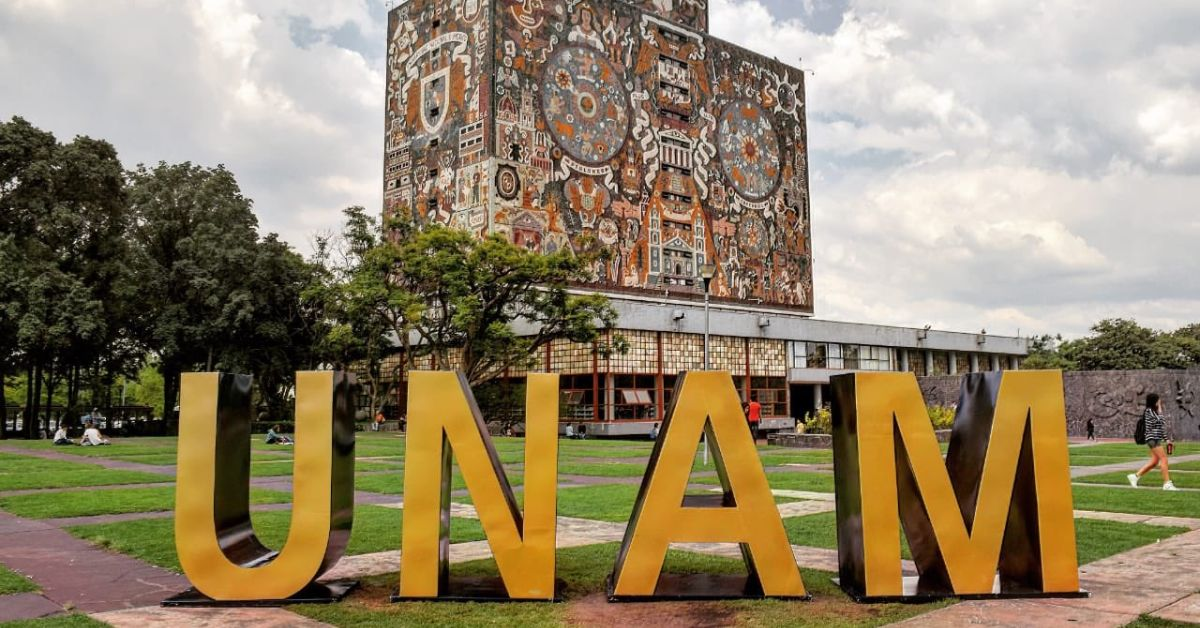
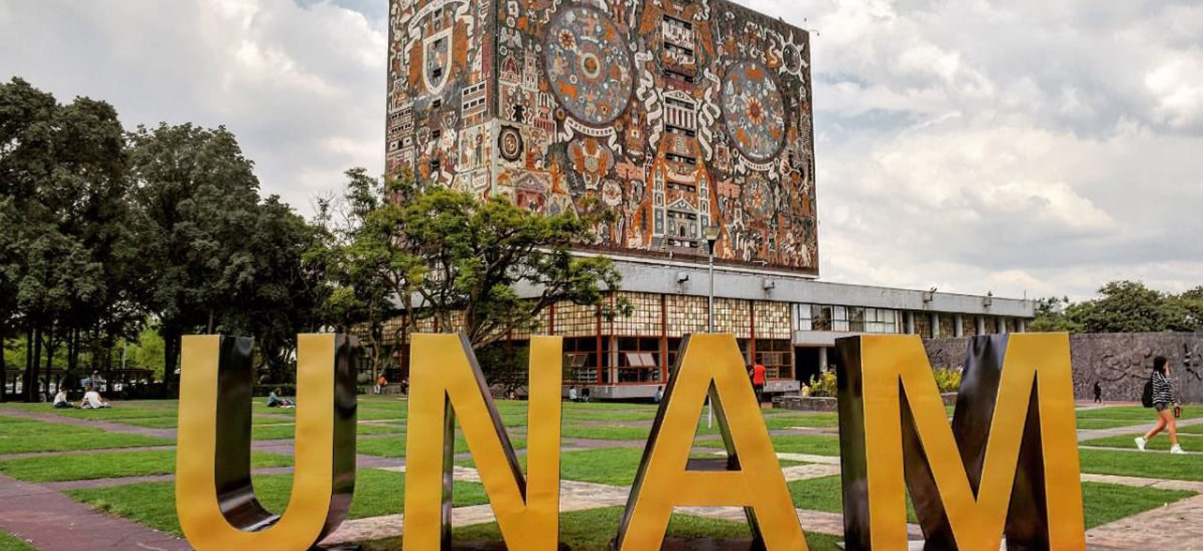
Update varios

diff --git a/Client/src/views/coursesViews/coursera/universidades/UNAM.vue b/Client/src/views/coursesViews/coursera/universidades/UNAM.vue
@@ -1,148 +1,148 @@
 <template>
-    <div class="bg-gray-100">
-      <!-- Portada -->
-      <!-- Imagen de Portada -->
-      <img :src="portadaImg" alt="Imagen de portada" class="w-full h-96 object-cover" />
-  
-      <!-- Contenido de la Portada -->
-      <div class="text-sm bg-opacity-75 px-4 sm:px-20 lg:px-60">
-        <!-- Título y Descripción -->
-        <div class="flex flex-col sm:flex-row items-center border-b border-gray-300">
-          <!-- Imagen -->
-          <img src="../../../../assets/instituciones/UNAM.png" alt="Universidad Autonoma de Mexico logo" class="w-64 h-auto">
-  
-          <!-- Texto -->
-          <div>
-            <h1 class="lg:text-2xl font-semibold text-gray-800">{{ pageTitle }}</h1>
-            <p class="text-gray-600">{{ pageDescription }}</p>
-          </div>
-        </div>
-  
-        <!-- Redes Sociales, ajustadas debajo de la imagen y el texto -->
-        <div class="flex justify-center space-x-4 py-4">
-          <a :href="instagramLink" target="_blank" class="text-gray-600 hover:text-gray-800">
-            <i class="fab fa-instagram fa-lg"></i>
-          </a>
-          <a :href="twitterLink" target="_blank" class="text-gray-600 hover:text-gray-800">
-            <i class="fab fa-twitter fa-lg"></i>
-          </a>
-          <a :href="facebookLink" target="_blank" class="text-gray-600 hover:text-gray-800">
-            <i class="fab fa-facebook-f fa-lg"></i>
-          </a>
+  <div class="bg-gray-100">
+    <!-- Portada -->
+    <!-- Imagen de Portada -->
+    <img :src="portadaImg" alt="" class="w-full h-80 object-cover" />
+
+    <!-- Contenido de la Portada -->
+    <div class="text-sm bg-opacity-75 px-4 sm:px-20 lg:px-60">
+      <!-- Título y Descripción -->
+      <div class="flex flex-col sm:flex-row pb-4 md:pb-0 items-center border-b border-gray-300">
+        <!-- Imagen -->
+        <img src="../../../../assets/instituciones/UNAM.png" alt="Universidad Autonoma de Mexico logo" class="w-64 h-auto">
+
+        <!-- Texto -->
+        <div>
+          <h1 class="lg:text-2xl font-semibold text-gray-800">{{ pageTitle }}</h1>
+          <p class="text-gray-600">{{ pageDescription }}</p>
         </div>
       </div>
-  
-      
-      <div class="container mx-auto px-4 sm:px-20 lg:px-60 py-6">
-        <!-- Cursos -->
-        <h2 class="text-md lg:text-xl font-semibold p-4 text-gray-800">
-          Cursos y programas especializados
-        </h2>
-  
-        <div class="grid grid-cols-1 sm:grid-cols-2 lg:grid-cols-3 xl:grid-cols-4 gap-4 pb-4">
-          <div v-for="(course) in displayedCourses" :key="course.slug"
-            class="flex flex-col bg- p-2 m-1 rounded-lg h-full hover:shadow-md shadow-sm transition">
-            <router-link :to="`/coursera/cursos/${course.slug}`"
-              class="inline-block hover:underline text-blue-600">
-                <img :src="course.imgUrl" alt="Imagen del curso" class="w-full h-48 object-cover rounded-md mb-4">
-                <div class="flex-grow">
-                  <h3 class="text-md font-semibold">{{ course.title || 'Título' }}</h3>
-                </div>
-            </router-link>
-          </div>
-        </div>
-  
-        <!-- Paginación -->
-        <Paginacion :currentPage="currentPage" :totalPages="totalPages" @changePage="handlePageChange" />
-  
-        <!-- Profesores -->
-        <div class="mt-8">
-          <h2 class="text-xl font-semibold mb-4">Profesores</h2>
-          <div v-if="professors.length" class="grid grid-cols-1 sm:grid-cols-2 lg:grid-cols-3 xl:grid-cols-4 gap-4">
-            <div v-for="professor in (isProfessorsExpanded ? professors : professors.slice(0, 16))" :key="professor._id"
-              class="bg-white p-4 rounded-lg shadow-md flex items-center">
-              <img :src="professor.imageUrl" alt="Foto del profesor" class="w-16 h-16 object-cover rounded-full mr-4" />
-              <div>
-                <h3 class="font-semibold">{{ professor.name }}</h3>
+
+      <!-- Redes Sociales, ajustadas debajo de la imagen y el texto -->
+      <div class="flex justify-center space-x-4 py-4">
+        <a :href="instagramLink" target="_blank" class="text-gray-600 hover:text-gray-800">
+          <i class="fab fa-instagram fa-lg"></i>
+        </a>
+        <a :href="twitterLink" target="_blank" class="text-gray-600 hover:text-gray-800">
+          <i class="fab fa-twitter fa-lg"></i>
+        </a>
+        <a :href="facebookLink" target="_blank" class="text-gray-600 hover:text-gray-800">
+          <i class="fab fa-facebook-f fa-lg"></i>
+        </a>
+      </div>
+    </div>
+
+    
+    <div class="container mx-auto px-4 sm:px-20 lg:px-60 py-6">
+      <!-- Cursos -->
+      <h2 class="text-md lg:text-xl font-semibold p-4 text-gray-800">
+        Cursos y programas especializados
+      </h2>
+
+      <div class="grid grid-cols-1 sm:grid-cols-2 lg:grid-cols-3 xl:grid-cols-4 gap-4 pb-4">
+        <div v-for="(course) in displayedCourses" :key="course.slug"
+          class="flex flex-col bg- p-2 m-1 rounded-lg h-full hover:shadow-md shadow-sm transition">
+          <router-link :to="`/coursera/cursos/${course.slug}`"
+            class="inline-block hover:underline text-blue-600">
+              <img :src="course.imgUrl" alt="Imagen del curso" class="w-full h-48 object-cover rounded-md mb-4">
+              <div class="flex-grow">
+                <h3 class="text-md font-semibold">{{ course.title || 'Título' }}</h3>
               </div>
+          </router-link>
+        </div>
+      </div>
+
+      <!-- Paginación -->
+      <Paginacion :currentPage="currentPage" :totalPages="totalPages" @changePage="handlePageChange" />
+
+      <!-- Profesores -->
+      <div class="mt-8">
+        <h2 class="text-xl font-semibold mb-4">Profesores</h2>
+        <div v-if="professors.length" class="grid grid-cols-1 sm:grid-cols-2 lg:grid-cols-3 xl:grid-cols-4 gap-4">
+          <div v-for="professor in (isProfessorsExpanded ? professors : professors.slice(0, 16))" :key="professor._id"
+            class="bg-white p-4 rounded-lg shadow-md flex items-center">
+            <img :src="professor.imageUrl" alt="Foto del profesor" class="w-16 h-16 object-cover rounded-full mr-4" />
+            <div>
+              <h3 class="font-semibold">{{ professor.name }}</h3>
             </div>
           </div>
-          <div v-if="professors.length > 4" class="text-center mt-4">
-            <button @click="toggleProfessorsVisibility"
-              class="px-4 py-2 border border-indigo-600 text-indigo-600 font-semibold rounded-lg hover:bg-indigo-600 hover:text-white focus:outline-none focus:ring-2 focus:ring-indigo-500 focus:ring-opacity-75 transition ease-in duration-300">
-              {{ isProfessorsExpanded ? 'Ver Menos' : 'Ver Más' }}
-            </button>
-          </div>
+        </div>
+        <div v-if="professors.length > 4" class="text-center mt-4">
+          <button @click="toggleProfessorsVisibility"
+            class="px-4 py-2 border border-indigo-600 text-indigo-600 font-semibold rounded-lg hover:bg-indigo-600 hover:text-white focus:outline-none focus:ring-2 focus:ring-indigo-500 focus:ring-opacity-75 transition ease-in duration-300">
+            {{ isProfessorsExpanded ? 'Ver Menos' : 'Ver Más' }}
+          </button>
         </div>
       </div>
     </div>
-  </template>
-  
-  <script setup>
-  import { ref, computed, onMounted } from 'vue';
-  import axios from 'axios';
-  import Paginacion from '../../../../components/Paginacion.vue';
-  
-  import portadaImg from "../../../../assets/instituciones/unam_campus.jpg";
-  
-  const pageTitle = ' Universidad Nacional Autónoma de México - Coursera';
-  const pageDescription = 'La Universidad Nacional Autónoma de México (UNAM) es una de las universidades más grandes y prestigiosas de América Latina. Fundada el 22 de septiembre de 1910, tiene su origen en la Real y Pontificia Universidad de México, establecida en 1551 por la Corona Española. Es una institución pública y autónoma que ofrece una amplia gama de programas académicos en todos los niveles de educación superior, incluyendo pregrado, posgrado y educación continua. La UNAM se destaca por su excelencia académica, su intensa actividad de investigación y su contribución significativa al desarrollo cultural, científico y tecnológico de México. Cuenta con múltiples facultades, escuelas, institutos y centros de investigación que abarcan áreas del conocimiento como las ciencias sociales, las humanidades, las ciencias exactas, las ingenierías, las artes, y más.';
-  const courses = ref([]);
-  const professors = ref([]);
-  const currentPage = ref(1);
-  const totalPages = ref(1);
-  const totalCourses = ref(0);
-  const isLoading = ref(false);
-  axios.defaults.baseURL = "http://localhost:3333";
-  const isProfessorsExpanded = ref(false);
-  
-  // Redes sociales links
-  const instagramLink = 'https://www.instagram.com/unam_mx/';
-  const twitterLink = 'https://twitter.com/UNAM_MX';
-  const facebookLink = 'https://www.facebook.com/UNAM.MX.Oficial/';
-  
-  // Cargar profesores
-  const loadProfessors = async () => {
-    try {
-      const response = await axios.get('/cursos/coursera/universidad/UNAM/profesores');
-      professors.value = response.data;
-    } catch (error) {
-      console.error("Error al obtener los profesores:", error.message);
-    }
-  };
-  
-  // Cargar cursos
-  const loadCourses = async () => {
-    isLoading.value = true;
-    try {
-      const response = await axios.get(`/cursos/coursera/universidad/UNAM?page=${currentPage.value}`);
-      courses.value = response.data.courses;
-      totalPages.value = response.data.totalPages;
-      totalCourses.value = response.data.totalCourses;
-    } catch (error) {
-      console.error("Error al obtener los cursos:", error);
-    } finally {
-      isLoading.value = false;
-    }
-  };
-  
-  // Manejo del cambio de página
-  const handlePageChange = (newPage) => {
-    currentPage.value = newPage;
-    loadCourses();
-  };
-  
-  // Mostrar una cantidad limitada de cursos
-  const visibleCourses = ref(8);
-  const displayedCourses = computed(() => courses.value.slice(0, visibleCourses.value));
-  
-  // Toggle para la visibilidad de los profesores
-  const toggleProfessorsVisibility = () => {
-    isProfessorsExpanded.value = !isProfessorsExpanded.value;
-  };
-  
-  onMounted(() => {
-    loadCourses();
-    loadProfessors();
-  });
-  </script>
+  </div>
+</template>
+
+<script setup>
+import { ref, computed, onMounted } from 'vue';
+import axios from 'axios';
+import Paginacion from '../../../../components/Paginacion.vue';
+
+import portadaImg from "../../../../assets/instituciones/unam_campus.jpg";
+
+const pageTitle = ' Universidad Nacional Autónoma de México - Coursera';
+const pageDescription = 'La Universidad Nacional Autónoma de México (UNAM) es una de las universidades más grandes y prestigiosas de América Latina. Fundada el 22 de septiembre de 1910, tiene su origen en la Real y Pontificia Universidad de México, establecida en 1551 por la Corona Española. Es una institución pública y autónoma que ofrece una amplia gama de programas académicos en todos los niveles de educación superior, incluyendo pregrado, posgrado y educación continua. La UNAM se destaca por su excelencia académica, su intensa actividad de investigación y su contribución significativa al desarrollo cultural, científico y tecnológico de México. Cuenta con múltiples facultades, escuelas, institutos y centros de investigación que abarcan áreas del conocimiento como las ciencias sociales, las humanidades, las ciencias exactas, las ingenierías, las artes, y más.';
+const courses = ref([]);
+const professors = ref([]);
+const currentPage = ref(1);
+const totalPages = ref(1);
+const totalCourses = ref(0);
+const isLoading = ref(false);
+axios.defaults.baseURL = "http://localhost:3333";
+const isProfessorsExpanded = ref(false);
+
+// Redes sociales links
+const instagramLink = 'https://www.instagram.com/unam_mx/';
+const twitterLink = 'https://twitter.com/UNAM_MX';
+const facebookLink = 'https://www.facebook.com/UNAM.MX.Oficial/';
+
+// Cargar profesores
+const loadProfessors = async () => {
+  try {
+    const response = await axios.get('/cursos/coursera/universidad/UNAM/profesores');
+    professors.value = response.data;
+  } catch (error) {
+    console.error("Error al obtener los profesores:", error.message);
+  }
+};
+
+// Cargar cursos
+const loadCourses = async () => {
+  isLoading.value = true;
+  try {
+    const response = await axios.get(`/cursos/coursera/universidad/UNAM?page=${currentPage.value}`);
+    courses.value = response.data.courses;
+    totalPages.value = response.data.totalPages;
+    totalCourses.value = response.data.totalCourses;
+  } catch (error) {
+    console.error("Error al obtener los cursos:", error);
+  } finally {
+    isLoading.value = false;
+  }
+};
+
+// Manejo del cambio de página
+const handlePageChange = (newPage) => {
+  currentPage.value = newPage;
+  loadCourses();
+};
+
+// Mostrar una cantidad limitada de cursos
+const visibleCourses = ref(8);
+const displayedCourses = computed(() => courses.value.slice(0, visibleCourses.value));
+
+// Toggle para la visibilidad de los profesores
+const toggleProfessorsVisibility = () => {
+  isProfessorsExpanded.value = !isProfessorsExpanded.value;
+};
+
+onMounted(() => {
+  loadCourses();
+  loadProfessors();
+});
+</script>

diff --git a/Client/src/views/blogs/blogList.vue b/Client/src/views/blogs/blogList.vue
@@ -1,15 +1,23 @@
 <template>
-  <div class="bg-pastel-fucsia min-h-screen p-5">
-    <Notificacion v-if="showNotification" :message="notificationMessage" :type="notificationType" @close="showNotification = false" />
+  <div class="flex-col max-w-screen-full md:flex-row mx-auto md:px-60 bg-gray-100 pb-12">
+    <Notificacion v-if="showNotification" :message="notificationMessage" :type="notificationType"
+      @close="showNotification = false" />
     <!-- Texto introductorio -->
     <div class="intro-text mb-4">
-      <h1 class="text-3xl font-bold text-center">Bienvenido a Nuestro Blog</h1>
-      <p class="text-xl text-center">Descubre las últimas tendencias, consejos y estrategias para potenciar tu carrera profesional.</p>
-      <p>En CURSEEK, estamos comprometidos con tu desarrollo y éxito profesional. A través de este espacio, queremos compartir contigo valiosas insights, consejos prácticos y las últimas tendencias en el mundo laboral que te ayudarán a destacar en tu búsqueda de empleo y desarrollo de carrera. </p>
+      <h1 class="text-4xl text-center py-12 lg:text-5xl font-bold text-gray-800">
+        <span class="font-serif text-indigo-900">Info | </span>Bienvenido a nuestro blog
+      </h1>
+      <p class="text-xl text-center">Descubre las últimas tendencias, consejos y estrategias para potenciar tu carrera
+        profesional.</p>
+      <p>En CURSEEK, estamos comprometidos con tu desarrollo y éxito profesional. A través de este espacio, queremos
+        compartir contigo valiosas insights, consejos prácticos y las últimas tendencias en el mundo laboral que te
+        ayudarán a destacar en tu búsqueda de empleo y desarrollo de carrera. </p>
     </div>
     <!-- Botón para agregar un nuevo blog solo si es admin -->
     <div v-if="isAdmin" class="text-right mb-4">
-      <router-link to="/blog/new" class="inline-block bg-blue-500 hover:bg-blue-600 text-white font-bold py-2 px-4 rounded-lg transition-colors duration-200">Agregar nuevo blog</router-link>
+      <router-link to="/blog/new"
+        class="inline-block bg-blue-500 hover:bg-blue-600 text-white font-bold py-2 px-4 rounded-lg transition-colors duration-200">Agregar
+        nuevo blog</router-link>
     </div>
     <!-- Listado de blogs -->
     <div v-if="blogs.length" class="max-w-6xl mx-auto grid grid-cols-1 md:grid-cols-2 lg:grid-cols-3 gap-4">
@@ -27,8 +35,10 @@
           </div>
           <div v-if="isAdmin" class="admin-buttons flex space-x-2 mt-4">
             <!-- Asegúrate de actualizar esta ruta si decides implementar la edición usando slugs -->
-            <router-link :to="{ name: 'EditBlog', params: { slug: blog.slug } }" class="inline-block bg-blue-500 hover:bg-blue-600 text-white font-bold py-2 px-4 rounded-lg transition-colors duration-200">Editar</router-link>
-            <button @click="deleteBlog(blog.slug)" class="bg-red-500 hover:bg-red-600 text-white font-bold py-2 px-4 rounded-lg transition-colors duration-200">Eliminar</button>
+            <router-link :to="{ name: 'EditBlog', params: { slug: blog.slug } }"
+              class="inline-block bg-blue-500 hover:bg-blue-600 text-white font-bold py-2 px-4 rounded-lg transition-colors duration-200">Editar</router-link>
+            <button @click="deleteBlog(blog.slug)"
+              class="bg-red-500 hover:bg-red-600 text-white font-bold py-2 px-4 rounded-lg transition-colors duration-200">Eliminar</button>
           </div>
         </div>
       </div>

diff --git a/Client/src/components/AppHeader.vue b/Client/src/components/AppHeader.vue
@@ -25,11 +25,14 @@
               <button @click="toggleDropdown" class="text-indigo-600 font-semibold focus:outline-none w-full">
                 <span :class="{ 'border-b-2 border-indigo-600 pb-5': dropdownActive }">Cursos</span>
               </button>
-             
             </div>
-            <a href="/blogs" class="ml-2 justify-between items-center py-1">
-                <span>Blogs</span>
-              </a>
+            <div class="relative ml-6 hidden md:block">
+              <button class="text-indigo-900 hover:text-indigo-600 transition font-serif font-semibold focus:outline-none w-full">
+                <a href="/blogs" class="ml-2 justify-between items-center py-1">
+                  <span>Info</span>
+                </a>
+              </button>
+            </div>
           </div>
 
           <nav class="hidden lg:flex space-x-4 text-md">
@@ -108,7 +111,7 @@
             <!-- <a v-else @click="logout" class="hover:text-red-700 cursor-pointer">Logout</a> -->
             <router-link v-if="loggedInUsername" to="/profile" class="hover:text-purple-200 text-black">
               <!-- <img :src="profilePicture" alt="" class="h-8 w-8 rounded-full mr-2">               -->
-              <svg xmlns="http://www.w3.org/2000/svg" viewBox="0 -960 960 960" width="32">
+              <svg class="mt-1" xmlns="http://www.w3.org/2000/svg" viewBox="0 -960 960 960" width="32">
                 <path
                   d="M234-276q51-39 114-61.5T480-360q69 0 132 22.5T726-276q35-41 54.5-93T800-480q0-133-93.5-226.5T480-800q-133 0-226.5 93.5T160-480q0 59 19.5 111t54.5 93Zm246-164q-59 0-99.5-40.5T340-580q0-59 40.5-99.5T480-720q59 0 99.5 40.5T620-580q0 59-40.5 99.5T480-440Zm0 360q-83 0-156-31.5T197-197q-54-54-85.5-127T80-480q0-83 31.5-156T197-763q54-54 127-85.5T480-880q83 0 156 31.5T763-763q54 54 85.5 127T880-480q0 83-31.5 156T763-197q-54 54-127 85.5T480-80Zm0-80q53 0 100-15.5t86-44.5q-39-29-86-44.5T480-280q-53 0-100 15.5T294-220q39 29 86 44.5T480-160Zm0-360q26 0 43-17t17-43q0-26-17-43t-43-17q-26 0-43 17t-17 43q0 26 17 43t43 17Zm0-60Zm0 360Z"
                   fill="#5154a4" />

diff --git a/Client/src/views/nosotros.vue b/Client/src/views/nosotros.vue
@@ -78,7 +78,7 @@
                 <div class="grid-cols-1 md:grid-cols-2 lg:grid-cols-3 gap-6 mt-6">
                     <!-- Card 1 -->
                     <div class="bg-white p-6 rounded-lg shadow-md md:mx-40 mb-4">
-                        <img src="https://lh3.googleusercontent.com/a-/ALV-UjUOdWbneS_2U1P8VDsQFxjmSkp8Xv0xitK1IIF5rOuBWA=s48-p"
+                        <img src="../assets/nosotros/Ramirez_Jairo.jpg"
                             alt="Imágen del Programador 1" class="w-24 object-cover mb-4 rounded-full">
                         <h4 class="text-xl font-semibold">Jairo Ramirez Dos Santos</h4>
                         <h5 class="text-sm text-gray-600 italic mb-2">Founder</h5>
@@ -98,7 +98,7 @@
                     </div>
                     <!-- Card 2 -->
                     <div class="bg-white p-6 rounded-lg shadow-md md:mx-40 mb-4">
-                        <img src="https://lh3.googleusercontent.com/a/ACg8ocKl8CKX-qlmOjBcBxtZCsS5KPVD3yELG44p0-2iMxf9nIo=s48-p"
+                        <img src="../assets/nosotros/Varas_Matias.jpg"
                             alt="Imágen del Programador 1" class="w-24 object-cover mb-4 rounded-full">
                         <h4 class="text-xl font-semibold">Matias Alejo Varas</h4>
                         <h5 class="text-sm text-gray-600 italic mb-2">Co-Founder</h5>

diff --git a/Client/src/views/profile.vue b/Client/src/views/profile.vue
@@ -100,7 +100,7 @@
         </div>
         <div class="text-right">
           <button @click="startEdit" class="btn text-sm font-bold text-black rounded-md border border-gray-300 p-2 mr-4">Editar perfil</button>
-          <button @click="logout" class="btn text-red-600 font-semibold text-lg mt-2">Logout</button>
+          <button @click="logout" class="btn text-red-600 font-semibold text-lg mt-2">Cerrar Sesión</button>
         </div>
       </div>
     </div>
